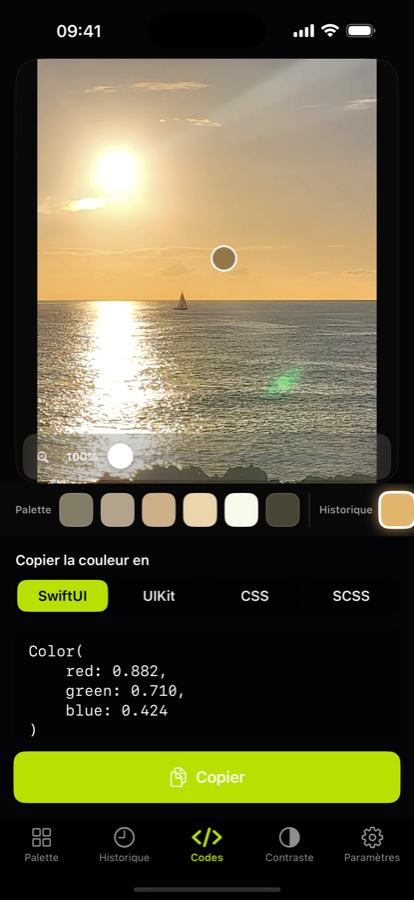
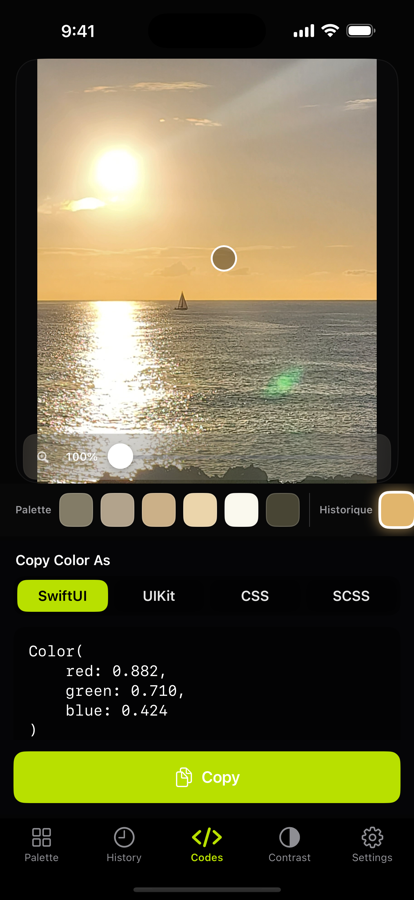
Fix responsive layout and use English screenshots

diff --git a/index.html b/index.html
@@ -30,7 +30,7 @@
     }
 
     * { box-sizing: border-box; }
-    html { scroll-behavior: smooth; }
+    html { scroll-behavior: smooth; max-width: 100%; overflow-x: clip; }
     body {
       margin: 0;
       color: var(--white);
@@ -40,7 +40,7 @@
       font-family: -apple-system, BlinkMacSystemFont, "SF Pro Display", "Segoe UI", sans-serif;
       font-size: 16px;
       line-height: 1.55;
-      overflow-x: hidden;
+      max-width: 100%; overflow-x: clip;
       -webkit-font-smoothing: antialiased;
     }
     img { display: block; max-width: 100%; height: auto; }
@@ -100,8 +100,12 @@
     .hero::before { width: 620px; height: 620px; top: -360px; right: -170px; background: rgba(184, 224, 0, .09); }
     .hero::after { width: 430px; height: 430px; left: -250px; bottom: -210px; border: 1px solid rgba(184, 224, 0, .12); }
     .hero-grid { display: grid; grid-template-columns: 1.05fr .95fr; gap: 56px; align-items: center; }
+    .hero-copy, .hero-shot-wrap { min-width: 0; }
     .hero-shot-wrap { display: flex; justify-content: center; }
-    .marketing-shot { border-radius: 34px; box-shadow: var(--shadow); border: 1px solid var(--line); max-width: 330px; }
+    .marketing-shot {
+      width: min(330px, 100%); height: auto;
+      border-radius: 34px; box-shadow: var(--shadow); border: 1px solid var(--line);
+    }
     .proof { list-style: none; padding: 0; margin: 26px 0 0; display: flex; flex-wrap: wrap; gap: 10px 26px; color: var(--muted); font-size: .94rem; }
     .proof li::before { content: "▪ "; color: var(--lime); font-weight: 700; }
 
@@ -175,6 +179,12 @@
     .showcase-grid img { border-radius: 26px; border: 1px solid var(--line); box-shadow: var(--shadow); }
     .showcase-grid figcaption { margin-top: 14px; color: var(--muted); font-size: .92rem; text-align: center; }
 
+    .ipad-shot {
+      width: min(820px, 100%); height: auto; aspect-ratio: 3 / 4;
+      object-fit: contain; margin: 36px auto 0;
+      border-radius: 26px; border: 1px solid var(--line); box-shadow: var(--shadow);
+    }
+
     .pricing { display: grid; grid-template-columns: repeat(auto-fit, minmax(290px, 1fr)); gap: 22px; align-items: start; }
     .plan { background: var(--panel); border: 1px solid var(--line); border-radius: var(--radius); padding: 34px 30px; }
     .plan.featured { border-color: rgba(184, 224, 0, .45); box-shadow: 0 0 0 1px rgba(184, 224, 0, .18), var(--shadow); }
@@ -204,10 +214,20 @@
       .langues-echantillon { aspect-ratio: 16 / 7; }
       .video-copy { text-align: center; }
       .video-copy .actions { justify-content: center; }
-      .hero-shot-wrap { order: -1; }
       .section { padding: 72px 0; }
       .nav-links { display: none; }
       .notice { grid-template-columns: 1fr; }
+    }
+
+    @media (max-width: 600px) {
+      .shell { width: min(calc(100% - 32px), var(--max)); }
+      .hero { padding: 54px 0 64px; }
+      .hero-grid { gap: 44px; }
+      h1 { font-size: clamp(2.25rem, 12vw, 3.1rem); overflow-wrap: anywhere; }
+      .hero-copy { text-align: center; }
+      .hero-copy .actions, .hero-copy .proof, .hero-copy .swatches { justify-content: center; }
+      .hero-copy .btn { flex: 1 1 220px; }
+      .marketing-shot { width: min(310px, 88vw); }
     }
   </style>
 </head>
@@ -263,7 +283,7 @@
           </div>
         </div>
         <div class="hero-shot-wrap">
-          <img class="marketing-shot" src="assets/capture-hero.png" alt="DotChroma on iPhone" width="330" height="717">
+          <img class="marketing-shot" src="assets/capture-hero.png" alt="DotChroma on iPhone" width="414" height="900">
         </div>
       </div>
     </section>
@@ -371,19 +391,19 @@
         </div>
         <div class="showcase-grid">
           <figure>
-            <img src="assets/capture-palette.png" alt="Dominant palette" loading="lazy">
+            <img src="assets/capture-palette.png" alt="Dominant palette" loading="lazy" width="414" height="900">
             <figcaption data-i18n="shot1">Dominant palette</figcaption>
           </figure>
           <figure>
-            <img src="assets/capture-harmonies.png" alt="Color harmonies" loading="lazy">
+            <img src="assets/capture-harmonies.png" alt="Color harmonies" loading="lazy" width="414" height="900">
             <figcaption data-i18n="shot2">Nine harmonies</figcaption>
           </figure>
           <figure>
-            <img src="assets/capture-codes.png" alt="Developer code export" loading="lazy">
+            <img src="assets/capture-codes.png" alt="Developer code export" loading="lazy" width="414" height="900">
             <figcaption data-i18n="shot3">Developer codes</figcaption>
           </figure>
           <figure>
-            <img src="assets/capture-contraste.png" alt="WCAG contrast check" loading="lazy">
+            <img src="assets/capture-contraste.png" alt="WCAG contrast check" loading="lazy" width="414" height="900">
             <figcaption data-i18n="shot4">WCAG contrast</figcaption>
           </figure>
         </div>
@@ -440,7 +460,7 @@
       <div class="shell" style="text-align:center">
         <h2 data-i18n="ipadTitle">Just as comfortable on iPad.</h2>
         <p class="sub" style="margin-inline:auto;max-width:52ch" data-i18n="ipadBody">On a large screen the image and the color panel sit side by side: you sample on one side and read the values on the other.</p>
-        <img src="assets/capture-ipad.png" alt="DotChroma on iPad" loading="lazy" style="border-radius:26px;border:1px solid var(--line);box-shadow:var(--shadow);margin:36px auto 0;max-width:820px">
+        <img class="ipad-shot" src="assets/capture-ipad.png" alt="DotChroma on iPad" loading="lazy" width="1050" height="1400">
       </div>
     </section>
   </main>
